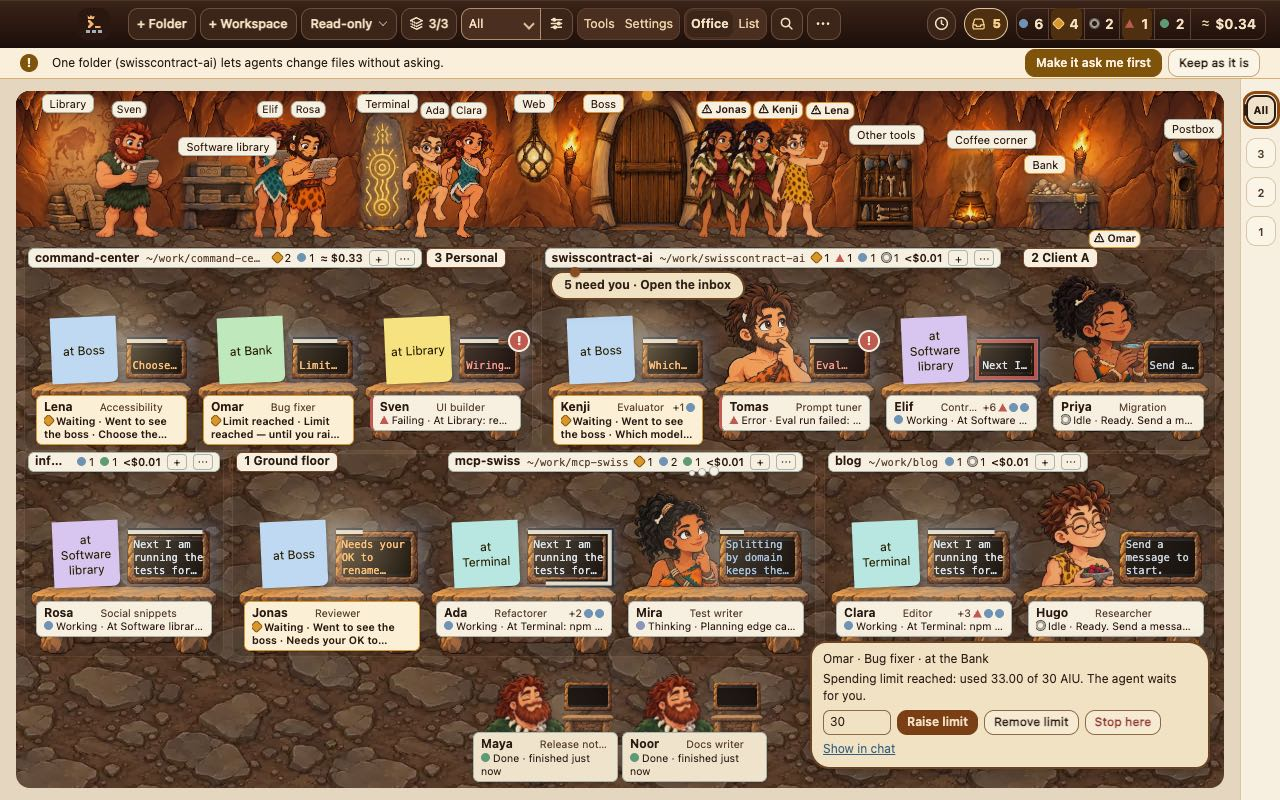
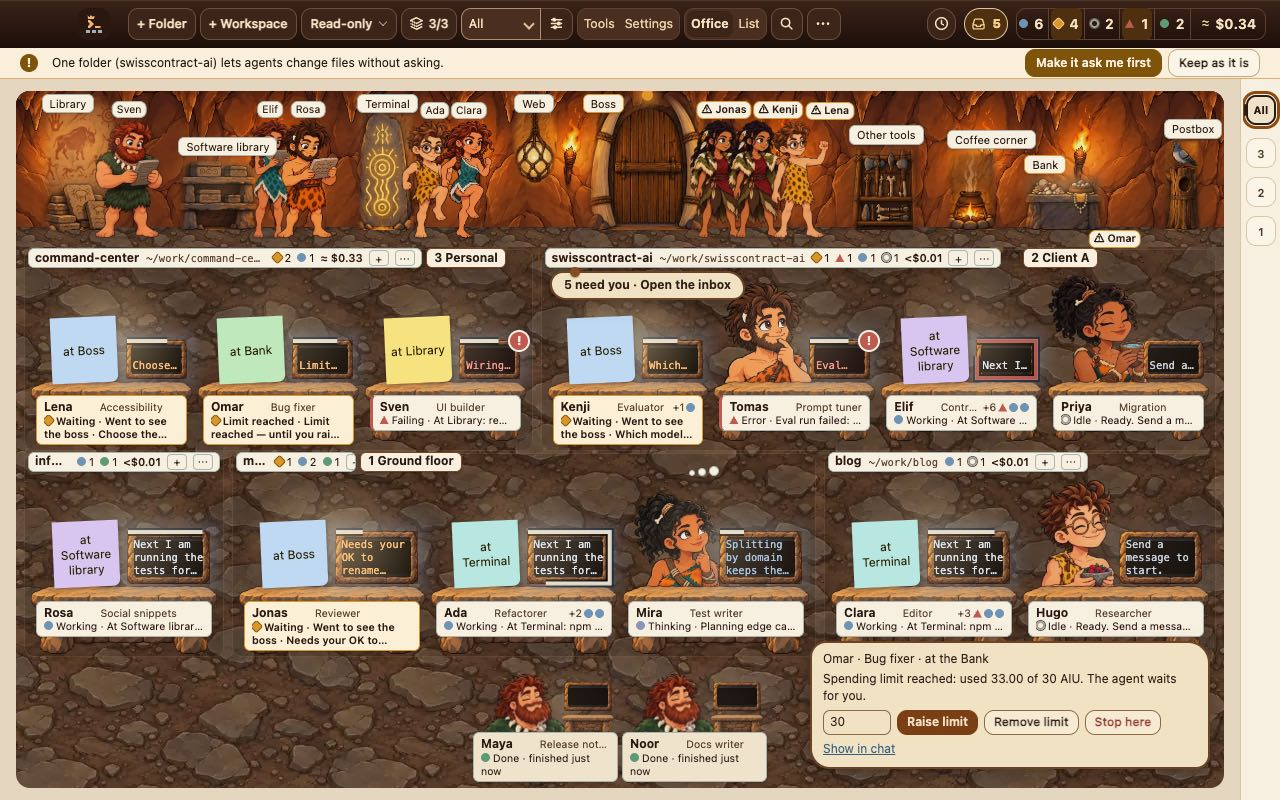
Photo office and cave storeys: never throw with many floors, no sign over thinking dots, a rule at the real start of its floor, fallback halls carry no tag (round 2 of the review of #1746)

Changed region(s): [[0.1875, 0.5625, 0.625, 0.5938]]

diff --git a/src/shared/realoffice-layout.ts b/src/shared/realoffice-layout.ts
@@ -300,7 +300,11 @@ export function lobbyRange(H: number): [number, number] {
 /** spec 097 FR-116 (review of PR 1746): the split reads top floor first: the rows are ordered by their first folder and a row's zones by folder order (as `roPack` lays them out), so the floors' ranks must not fall in that reading order */
 function roFloorOrder(part: RealFolder[][], rank: Map<string, number>): boolean {
   let last = -1;
-  for (const row of part) for (const z of row) { const r = z.floor ? rank.get(z.floor.id) ?? 0 : 0; if (r < last) return false; last = r; }
+  for (const row of part) for (const z of row) {
+    const r = z.floor ? rank.get(z.floor.id) ?? 0 : 0;
+    if (r < last) return false;
+    last = r;
+  }
   return true;
 }
 
@@ -610,7 +614,7 @@ export function realLayout(model: RealModel, viewport: { w: number; h: number },
         /* a floor starts on a new row only when that is free too: the rows each hold one floor and the gaps between storeys are taken from the height; otherwise the floors share rows, and a storey
            that starts mid-row is marked by an upright rule. With 8 or fewer agents (one big row) floors always share it. */
         const gaps = (runs.length - 1) * STOREY_GAP, f = o.p.rows.length > 1 ? choose(folders, Ho - gaps, floor, 2) : null;
-        if (f && !f.p.rows[0].scrH && ok(f, gaps)) { c = f; forced = true; used = gaps; } else c = o;
+        if (f && f.p.fits && f.p.rows.length && !f.p.rows[0].scrH && ok(f, gaps)) { c = f; forced = true; used = gaps; } else c = o;
       }
     }
     const p = c.p; helpRows = c.hr;
@@ -620,10 +624,10 @@ export function realLayout(model: RealModel, viewport: { w: number; h: number },
   const spare = fits ? Math.max(0, Ho - Lb - used) : 0, extra = spare / (rows.length + 1);
   let y = Lb + extra / 2;
   /* spec 097 FR-104 (T113): the storey of a folder; the first zone of each storey carries its tag; a rule goes where a storey starts */
-  const runOf = new Map<string, number>(), firstOf = new Map<string, number>(), slabs = new Map<number, Rect>(), tags = new Map<number, Rect>();
-  (runs || []).forEach((rn, i) => { firstOf.set(folders[rn.from].id, i); for (let k = rn.from; k < rn.to; k++) runOf.set(folders[k].id, i); });
+  const runOf = new Map<string, number>(), started = new Set<number>(), slabs = new Map<number, Rect>(), tags = new Map<number, Rect>();
+  (runs || []).forEach((rn, i) => { for (let k = rn.from; k < rn.to; k++) runOf.set(folders[k].id, i); });
   let prevSt = -1;
-  const cands = new Map<number, Array<{ zi: number; sy: number; sx: number; sw: number; x0: number; lim: number; avail: number; hands: number[][] }>>();
+  const cands = new Map<number, Array<{ zi: number; sy: number; sx: number; sw: number; x0: number; lim: number; avail: number; hands: number[][]; dots: number[][] }>>();
   for (const r of rows) {
     const g = roRowGeom(meta, r, u);
     const stRow = runOf.get(r.zones[0].id.split('\u0000')[0]) ?? -1;
@@ -637,22 +641,32 @@ export function realLayout(model: RealModel, viewport: { w: number; h: number },
       for (const a of z.agents) { const d = roStation(meta, a, ax, y, r.Sw, u, g, big, r.scrH, r.strip ? helpRows : 0, r.strip); d.slot.h = g.bottom; desks.push(d); ax += r.Sw; }
       /* FR-018: the sign sits at the left unless a raised hand (a waving person's picture rising into the strip) is there */
       const s0 = z.id.split('\u0000')[0], s = signs && roOwn(signs, s0) ? signs[s0] : { name: s0, path: '', counts: 1 };
-      const sw = signWidth(s.name, s.path, s.counts, zw);
+      let sw = signWidth(s.name, s.path, s.counts, zw), shrunk = false;
       const hands = desks.filter((d) => d.person && roNeedsYou(d.state) && d.person.y < y + STRIP).map((d) => [d.person!.x, d.person!.x + d.person!.w * 0.6]);
-      const hits = (px: number): boolean => hands.some(([a, b]) => b > px && a < px + sw);
+      /* spec 097 FR-104 (review of PR 1746, issue #1759): with floors drawn, the sign keeps clear of a thinking person's dots in the strip too (the dots touched the sign's lower edge, and a sign moved for a tag stood over them) */
+      const dots = runs ? desks.filter((d) => d.dots && d.dots.y < y + 21 && d.dots.y + DOTS_H > y + 1).map((d) => [d.dots!.x - 2, d.dots!.x + DOTS_W + 2]) : [];
+      const hits = (px: number, w = sw): boolean => hands.some(([a, b]) => b > px && a < px + w) || dots.some(([a, b]) => b > px && a < px + w);
       let sx = x + 4;
-      if (hits(sx)) { sx = x + zw - 4 - sw; if (hits(sx)) sx = Math.max(...hands.map((h) => h[1])) + 6; }
+      if (hits(sx)) { sx = x + zw - 4 - sw; if (hits(sx)) sx = Math.max(...hands.concat(dots).map((h) => h[1])) + 6; }
       sx = Math.max(x + 4, Math.min(sx, x + zw - 4 - sw));
+      if (dots.length && hits(sx)) { /* a gap between the hands and dots wide enough for the sign: the first one from the left */
+        const gaps = [x + 4, ...hands.concat(dots).map((h) => h[1] + 6)].sort((p1, p2) => p1 - p2), wide = (px: number): number => Math.min(sw, x + zw - 4 - px, ...hands.concat(dots).filter(([a0]) => a0 > px).map(([a0]) => a0 - 2 - px)); /* the sign may give up width down to STOREY_SIGN_MIN */
+        const gap = gaps.find((px) => wide(px) >= sw && !hits(px)) ?? gaps.find((px) => wide(px) >= STOREY_SIGN_MIN && !hits(px, wide(px)));
+        if (gap !== undefined) { sx = gap; sw = wide(gap); if (sw < signMin(s.counts)) shrunk = true; }
+      }
       const [fid, part] = z.id.split('\u0000');
       /* spec 097 FR-104 (T113): every zone of a storey is a place for its tag (chosen below); the rule stands in the gap before the storey's first zone when the storey starts mid-row */
       const si = !part && runOf.has(fid) ? runOf.get(fid)! : -1;
       if (si >= 0) {
+        /* the rule goes before the storey's first zone in reading order (two folders of one floor may stand in either order) */
+        const first = !started.has(si);
+        if (first) started.add(si);
         const lim = r.zones.indexOf(z) < r.zones.length - 1 ? x + zw + ZGAP - 5 : W - PAD;
-        (cands.get(si) || cands.set(si, []).get(si)!).push({ zi: zones.length, sy: y + 1, sx, sw, x0: x + 4, lim, avail: lim - (x + 4), hands });
-        if (firstOf.get(fid) === si && si > 0 && !forced) slabs.set(si, { x: Math.max(0, x - 3), y: y + 1, w: 2, h: 20 });
+        (cands.get(si) || cands.set(si, []).get(si)!).push({ zi: zones.length, sy: y + 1, sx, sw, x0: x + 4, lim, avail: lim - (x + 4), hands, dots });
+        if (first && si > 0 && !forced) slabs.set(si, { x: Math.max(0, x - 3), y: y + 1, w: 2, h: 20 });
       }
       /* spec 097 FR-356 (bug #1392): the path gives way first, then the name down to 3 letters; a room too narrow even then takes FR-256's short sign (name, counts, + and menu; the cost on the name's hover) */
-      const short = signMin(s.counts) > zw - 8;
+      const short = signMin(s.counts) > zw - 8 || shrunk;
       zones.push({ id: fid, part: Number(part || 1), box: { x, y: y + 2, w: zw, h: g.bottom - 2 }, sign: { x: sx, y: y + 1, w: sw, h: 20 }, desks, ...(short ? { signShort: true } : {}) });
       x += zw + ZGAP;
     }
@@ -662,7 +676,7 @@ export function realLayout(model: RealModel, viewport: { w: number; h: number },
      Inside that zone's strip [x0, lim] it stands clear of the sign, of every raised hand and of a thinking person's dots: after the sign, else before it, else the sign moves to the other end
      (the sign gives up width down to its minimum first). Review of PR 1746: before, a raised hand moved the sign to the zone's right end and the tag went past the zone. */
   type Cand = NonNullable<ReturnType<typeof cands.get>>[number];
-  const placeTag = (c: Cand, tw0: number, tmin: number, smin: number, keepDots: boolean): { sx: number; sw: number; tx: number; tw: number } | null => {
+  const placeTag = (c: Cand, tw0: number, tmin: number, smin: number, keepDots: boolean, signDots = keepDots): { sx: number; sw: number; tx: number; tw: number } | null => {
     /* what stands in the strip along this row, in any zone (a person's picture reaches past its desk): the raised hands, and a thinking person's dots (the sign was there before them, the tag keeps clear) */
     const obst: number[][] = [];
     for (const zz of zones) if (Math.abs(zz.sign.y - c.sy) < 1) for (const d of zz.desks) {
@@ -673,8 +687,8 @@ export function realLayout(model: RealModel, viewport: { w: number; h: number },
     /* the tag keeps its whole text if it can; narrowed to its minimum (its name cut, whole in the title) only when no place clear of the hands and dots holds it */
     for (const tw of [...new Set([tw0, tmin])]) {
       const sws = [...new Set([Math.max(Math.min(c.sw, smin), Math.min(c.sw, c.avail - tw - 4)), Math.min(c.sw, smin)])];
-      for (const sw2 of sws) for (const sx of [c.sx, free(c.x0, sw2, c.hands), c.lim - sw2]) {
-        if (sx < c.x0 || sx + sw2 > c.lim || c.hands.some(([a, b]) => b > sx && a < sx + sw2)) continue;
+      for (const sw2 of sws) for (const sx of [c.sx, free(c.x0, sw2, signDots ? c.hands.concat(c.dots) : c.hands), c.lim - sw2]) {
+        if (sx < c.x0 || sx + sw2 > c.lim || (signDots ? c.hands.concat(c.dots) : c.hands).some(([a, b]) => b > sx && a < sx + sw2)) continue;
         for (const tx of [free(sx + sw2 + 4, tw, obst), free(c.x0, tw, obst)]) if (tx >= c.x0 && tx + tw <= c.lim && (tx >= sx + sw2 + 4 || tx + tw + 4 <= sx)) return { sx, sw: sw2, tx, tw };
       }
     }
@@ -683,11 +697,11 @@ export function realLayout(model: RealModel, viewport: { w: number; h: number },
   for (const [si, list] of cands) {
     const need = STOREY_SIGN_MIN + STOREY_TAG_MIN + 4, byRoom = list.slice().sort((p, q) => q.avail - p.avail);
     /* in this order: a zone with the room, then any zone with its tag cut to its number (STOREY_TAG_CUT, the title has the name) and its sign to STOREY_SIGN_CUT, then, the dots no longer kept clear, the zone with the most room */
-    const tries: Array<[Cand[], number, number, boolean]> = [[list.filter((k) => k.avail >= need), STOREY_TAG_MIN, STOREY_SIGN_MIN, true], [byRoom, STOREY_TAG_CUT, STOREY_SIGN_CUT, true], [byRoom, STOREY_TAG_CUT, STOREY_SIGN_CUT, false]];
+    const tries: Array<[Cand[], number, number, boolean, boolean]> = [[list.filter((k) => k.avail >= need), STOREY_TAG_MIN, STOREY_SIGN_MIN, true, true], [byRoom, STOREY_TAG_CUT, STOREY_SIGN_CUT, true, true], [byRoom, STOREY_TAG_CUT, STOREY_SIGN_CUT, true, false], [byRoom, STOREY_TAG_CUT, STOREY_SIGN_CUT, false, false]];
     let c: Cand = byRoom[0], got: { sx: number; sw: number; tx: number; tw: number } | null = null;
-    for (const [zs, tmin, smin, kd] of tries) for (const k of zs) {
+    for (const [zs, tmin, smin, kd, sd] of tries) for (const k of zs) {
       if (got) break;
-      c = k; got = placeTag(k, Math.max(tmin, Math.floor(Math.min(storeyTagW(runs![si].floor), k.avail - smin - 4))), tmin, smin, kd);
+      c = k; got = placeTag(k, Math.max(tmin, Math.floor(Math.min(storeyTagW(runs![si].floor), k.avail - smin - 4))), tmin, smin, kd, sd);
     }
     if (!got) { c = byRoom[0]; const sw3 = Math.min(c.sw, STOREY_SIGN_CUT); got = { sx: c.sx, sw: sw3, tx: Math.max(c.x0, Math.min(c.lim - STOREY_TAG_CUT, c.sx + sw3 + 4)), tw: STOREY_TAG_CUT }; } /* no zone has room for both clear of the hands: inside the hall at least */
     const z = zones[c.zi];

diff --git a/scripts/test-realoffice-aisles.ts b/scripts/test-realoffice-aisles.ts
@@ -714,7 +714,7 @@ console.log(`floor covered with 4 or fewer: ${covs.join('; ')}`);
 for (const world of ['photo', 'cave']) {
   const WM = { ...readJson('worlds', world, 'world.json'), ...readJson('sets', world === 'cave' ? 'retro' : 'office', 'set.json') } as unknown as RealMeta;
   const WP = Object.keys(WM.seat).sort();
-  const FLS: RealFloor[] = [{ id: 'g', name: 'Ground floor', n: 1 }, { id: 'c', name: 'Client A', n: 2 }, { id: 'p', name: 'Personal', n: 3 }];
+  const FLS: RealFloor[] = [{ id: 'g', name: 'Ground floor', n: 1 }, { id: 'c', name: 'Client A', n: 2 }, { id: 'p', name: 'Personal', n: 3 }, { id: 'd', name: 'Fourth', n: 4 }];
   /* states: working only, or a mix with people waiting at their desks (raised hand) and thinking (dots); helpers: every agent has one */
   const MIX: RealState[] = ['working', 'waiting', 'thinking', 'working', 'limit', 'working', 'thinking', 'waiting'];
   const fm = (sizes: number[], floorOf: number[], o: { mix?: boolean; helpers?: boolean } = {}): RealModel => { let i = 0; return { folders: sizes.map((n, fi) => ({ id: 'f' + fi, floor: FLS[floorOf[fi]], agents: Array.from({ length: n }, () => { const k = i++; return { id: 'a' + k, state: o.mix ? MIX[k % MIX.length] : 'working' as RealState, person: WP[k % WP.length], away: null, ...(o.helpers ? { helpers: 1 } : {}) }; }) })), places: ['library', 'coffee', 'boss'].map((id) => ({ id, visitors: [] })) }; };
@@ -748,6 +748,22 @@ for (const world of ['photo', 'cave']) {
       assert.ok(!S.some((o) => o.slab && inter(o.slab, b.tag)), `${tag}: no rule runs over the tag of ${b.name}`);
       if (i) assert.ok(!L.zones.some((z) => inter(b.slab!, z.sign) || z.desks.some((d) => inter(b.slab!, d.plate))), `${tag}: the rule of ${b.name} covers no sign or plate`);
     }
+    /* issue #1759 and review round 2: no sign covers a thinking person's dots (the sign moved for a tag stood over them) */
+    const gapFor = (z: Layout['zones'][number]): boolean => { /* is there a place of the sign's minimum width (120 px) in the zone's strip clear of every hand and dots? (then the sign must stand there) */
+      const ob = z.desks.flatMap((d) => [...(d.dots ? [[d.dots.x - 2, d.dots.x + 32]] : []), ...(d.person && needsYou(d) && d.person.y < z.sign.y + 20 ? [[d.person.x, d.person.x + d.person.w * 0.6]] : [])]), lo = z.box.x + 4, hi = z.box.x + z.box.w - 4;
+      return [lo, ...ob.map((o) => o[1] + 6)].some((px) => { const w = Math.min(hi - px, ...ob.filter((o) => o[0] > px).map((o) => o[0] - 2 - px)); return w >= 120 && !ob.some((o) => o[1] > px && o[0] < px + 120); });
+    };
+    for (const z of L.zones) for (const d of z.desks) if (d.dots && gapFor(z)) assert.ok(!inter(z.sign, { x: d.dots.x, y: d.dots.y, w: 30, h: 10 }), `${tag}: the sign of ${z.id} covers the thinking dots of ${d.id}`);
+    /* review round 2: a floor's rule and tag stand at the floor's first folder in reading order: the upright rule before its first zone, no tag above it, no rule below the tag */
+    S.forEach((b, i) => {
+      const fz = L.zones.filter((z) => z.part === 1 && m.folders.find((f) => f.id === z.id)!.floor!.n === b.n).sort((p1, p2) => Math.round(p1.sign.y) - Math.round(p2.sign.y) || p1.box.x - p2.box.x)[0];
+      if (!fz) return;
+      assert.ok(b.tag.y >= fz.sign.y - 1, `${tag}: the tag of ${b.name} is not above the floor's first folder`);
+      if (i && b.slab) {
+        if (b.slab.w === 2) assert.ok(Math.abs(b.slab.x - Math.max(0, fz.box.x - 3)) < 1.5 && Math.abs(b.slab.y - fz.sign.y) < 1.5, `${tag}: the rule of ${b.name} stands before the floor's first folder in reading order (rule y ${b.slab.y}, first folder y ${fz.sign.y})`);
+        assert.ok(b.slab.y <= b.tag.y + 1, `${tag}: the rule of ${b.name} is not below its tag (rule y ${b.slab.y}, tag y ${b.tag.y})`);
+      }
+    });
     const own = S.length > 1 && S.every((b, i) => !i || b.slab!.w > 100);
     if (own) { /* floors on rows of their own: no row holds two floors, the rule lies across between the rows */
       const rowFloors = new Map<number, Set<string>>(); L.zones.forEach((z) => { const k = Math.round(z.sign.y), f = m.folders.find((x) => x.id === z.id)!.floor!.id; (rowFloors.get(k) || rowFloors.set(k, new Set()).get(k)!).add(f); });
@@ -757,10 +773,20 @@ for (const world of ['photo', 'cave']) {
     cases++;
     return own ? 'own' : 'share';
   };
+  // the hall-fallback splits (owner decision 2026-11-14 11:01 UTC, hall over names: PR 1746 comment 6876289137): no storeys, no tag, no rule: exactly the hall without floors
+  for (const [W, H, nm, sz, fl] of [[1248, ROOM.h800, '4+1 on each floor', [4, 1, 4, 1, 4, 1], [2, 2, 1, 1, 0, 0]], [1248, ROOM.h800, '6/5/4', [6, 5, 4], [2, 1, 0]], [1408, ROOM.h900, '1/8/4', [1, 8, 4], [2, 1, 0]], [1248, ROOM.h800, '1/8/4', [1, 8, 4], [2, 1, 0]]] as Array<[number, number, string, number[], number[]]>) {
+    if (world === 'cave' && nm !== '1/8/4') continue; /* the cave draws floors for 4+1 and 6/5/4 at 1280x800 (they share rows at no cost) */
+    for (const mix of [false, true]) {
+      const m = fm(sz, fl, { mix }), L = realLayout(m, { w: W, h: H }, ON, sg(sz.length));
+      assert.strictEqual(L.storeys, undefined, `${world}: ${nm} at ${W}: the hall without floors carries no storeys, tags or rules (no partial tag)`);
+      assert.strictEqual(JSON.stringify(L), JSON.stringify(realLayout(flat(m), { w: W, h: H }, ON, sg(sz.length))), `${world}: ${nm} at ${W}: the hall without floors is the flat hall`);
+      cases++;
+    }
+  }
   const CASES: Array<[string, number[], number[]]> = [
     ['15: 5/5/5', [5, 5, 5], [2, 1, 0]], ['15: 4+1 on each floor', [4, 1, 4, 1, 4, 1], [2, 2, 1, 1, 0, 0]], ['15: 8/7 on 2 floors', [8, 7], [1, 0]], ['15: 6/5/4', [6, 5, 4], [2, 1, 0]], ['15: 7/4/4', [7, 4, 4], [2, 1, 0]],
     ['15: 3,3,3,3,3 on 3 floors', [3, 3, 3, 3, 3], [2, 2, 1, 0, 0]], ['12: 4/4/4', [4, 4, 4], [2, 1, 0]], ['9: 3/3/3', [3, 3, 3], [2, 1, 0]], ['15: 1/1/13', [1, 1, 13], [2, 1, 0]], ['13: 1/8/4', [1, 8, 4], [2, 1, 0]],
-    ['15: 10/5 on 2 floors', [10, 5], [1, 0]], ['11: 5/1/5', [5, 1, 5], [2, 1, 0]],
+    ['15: 10/5 on 2 floors', [10, 5], [1, 0]], ['15: 3,3,3,3,3 on 4 floors (floor 1 holds the last two)', [3, 3, 3, 3, 3], [3, 2, 1, 0, 0]], ['11: 5/1/5', [5, 1, 5], [2, 1, 0]],
   ];
   const sizes: Array<[number, number]> = [[1408, ROOM.h900], [1248, ROOM.h800]];
   const table: string[] = [], outcome = new Map<string, string>();
@@ -807,6 +833,23 @@ for (const world of ['photo', 'cave']) {
     }
     assert.ok(drawn > 300, `${world}: the fuzz draws floors in most halls (${drawn} of 600)`);
     console.log(`rows storeys (${world}): 600 random halls: ${drawn} draw floors, the others the hall without floors; no tag off the hall or over a sign, plate, desk, hand, dots or tag; reading order; no row added`); }
+  // 1 to 9 floors (the app allows more): realLayout never throws and the layout is valid (every folder drawn, finite boxes, tags inside the hall); more than four floors cannot stand on rows of their own, the hall is the flat one
+  { let seed = world === 'photo' ? 31 : 37; const rnd = (): number => { seed = (seed * 1664525 + 1013904223) % 4294967296; return seed / 4294967296; };
+    const FL9: RealFloor[] = Array.from({ length: 9 }, (_, i) => ({ id: 'x' + i, name: 'Floor ' + (i + 1), n: i + 1 }));
+    for (let t = 0; t < 400; t++) {
+      const nf = 1 + Math.floor(rnd() * 9), nfold = nf + Math.floor(rnd() * 4), total = Math.min(15, Math.max(nfold, 6 + Math.floor(rnd() * 10)));
+      const fl = Array.from({ length: nfold }, (_, i) => (i < nf ? i : Math.floor(rnd() * nf))).sort((x, y) => y - x), sz = fl.map(() => 1);
+      for (let r = total - nfold; r > 0; r--) sz[Math.floor(rnd() * nfold)]++;
+      let k = 0;
+      const m: RealModel = { folders: sz.map((n, fi) => ({ id: 'f' + fi, floor: FL9[fl[fi]], agents: Array.from({ length: n }, () => { const i = k++; return { id: 'a' + i, state: MIX[i % MIX.length], person: WP[i % WP.length], away: null }; }) })), places: [] };
+      const [W, H] = sizes[t % 2], tag = `${world} ${nf} floors (${sz.join('/')} on ${fl.join(',')}) at ${W}`;
+      let L: Layout | null = null;
+      try { L = realLayout(m, { w: W, h: H }, ON, sg(sz.length)); } catch (e) { assert.fail(`${tag}: realLayout throws: ${(e as Error).message}`); }
+      assert.ok(L!.zones.length >= nfold && L!.zones.every((z) => Number.isFinite(z.box.x) && Number.isFinite(z.box.y) && z.box.w > 0) && Number.isFinite(L!.u) && L!.u > 0, `${tag}: a valid layout`);
+      if (L!.storeys) assert.ok(L!.storeys.every((b) => inside(b.tag, { x: 0, y: 0, w: W, h: L!.height })), `${tag}: every tag inside the hall`);
+      cases++;
+    }
+  }
   // forced only when free: 15 agents 5/5/5 at 1440x900 stand each on its own row, at 1280x800 the floors share rows (checked above)
   const small = realLayout(fm([5, 5, 5], [2, 1, 0]), { w: 1248, h: ROOM.h800 }, ON, sg(3));
   assert.ok(!small.scroll, `${world}: 15 agents over 3 floors fit 1280x800 with no scroll`);

diff --git a/scripts/shots-097-moments.js b/scripts/shots-097-moments.js
@@ -463,6 +463,7 @@ module.exports = async (ctx) => {
           ratio:Math.min(...tags.map(t=>{const b=t.querySelector('b')||t,a=Lm(P(getComputedStyle(b).color)),c=Lm(P(getComputedStyle(t).backgroundColor));return (Math.max(a,c)+0.05)/(Math.min(a,c)+0.05)})),
           overlap:tags.flatMap((t,i)=>tags.slice(i+1).filter(o=>hit(R(t),R(o))).map(()=>'tag x tag').concat(others.filter(o=>hit(R(t),R(o))).map(o=>'tag x '+o.className))),
           cut:tags.filter(t=>{const b=t.querySelector('b');return !b||b.scrollWidth>b.clientWidth+0.5||!R(t).width}).map(t=>t.textContent.trim()), /* review of #1741: the ellipsis is on the <b>, not on the tag's box (that one never overflows) */
+          signDots:[...document.querySelectorAll('#stage .ro-sign:not(.ro-stag)')].flatMap(g=>[...document.querySelectorAll('#stage .ro-dots')].filter(d=>hit(R(g),R(d))).map(()=>g.textContent.trim().slice(0,20))), /* issue #1759: no sign over a thinking person's dots */
           lounge:document.querySelectorAll('#stage .ro-plate.lounge').length,rest:tags.some(t=>t.textContent.trim()==='Resting'),
           inWindow:tags.every(t=>{const r=R(t);return r.left>=0&&r.right<=innerWidth&&r.top>=0&&r.bottom<=innerHeight}),
           storeys:(lay.storeys||[]).length,scroll:st.dataset.fit==='scroll'||fl.scrollHeight>fl.clientHeight+1}})()`);
@@ -473,6 +474,7 @@ module.exports = async (ctx) => {
       assert.strictEqual(sto.small, 0, `${tag}: the storey tags are 10.5px or more`);
       assert.ok(sto.ratio >= 4.5, `${tag}: the storey tags read at 4.5:1: ${sto.ratio}`);
       assert.deepStrictEqual(sto.overlap, [], `${tag}: no storey tag covers a sign, a plate, thinking dots, a chip or another tag`);
+      assert.deepStrictEqual(sto.signDots, [], `${tag}: no folder sign covers a thinking person's dots (issue #1759)`);
       assert.ok(sto.inWindow, `${tag}: every storey tag is inside the window`);
       assert.strictEqual(sto.scroll, false, `${tag}: the All floors view does not scroll`);
       await shot(world, 'cell-allfloors', w, h);

diff --git a/src/renderer/realoffice.js b/src/renderer/realoffice.js
@@ -350,7 +350,11 @@
     };
     const signs = {};
     for (const f of model.folders) signs[f.id] = { name: f.name, path: f.path, counts: f.counts.length + (f.cost ? 1 : 0) };
-    let lay = meta.arrangement && meta.arrangement !== 'rows' && L.layoutFor ? L.layoutFor(meta.arrangement, engine, view, meta, signs) : L.realLayout(engine, view, meta, signs); /* spec 102 FR-228: the one seam */
+    const layOut = (eng) => meta.arrangement && meta.arrangement !== 'rows' && L.layoutFor ? L.layoutFor(meta.arrangement, eng, view, meta, signs) : L.realLayout(eng, view, meta, signs); /* spec 102 FR-228: the one seam */
+    let lay;
+    try { lay = layOut(engine); } catch (e) { /* spec 097 review of #1746: a layout that fails never leaves an empty office: the hall without floors is drawn instead (the floors' names are the first to go) */
+      lay = layOut(Object.assign({}, engine, { folders: engine.folders.map((f) => Object.assign({}, f, { floor: undefined })) }));
+    }
     /* spec 102 delta 2026-11-11 (issue 1566): an arcade hall that would scroll takes the floor's own padding (`opts.lend`, px) when that makes it fit, so a strip over the floor does not make 15 agents scroll at 1280x800; `lent` tells the host to drop that padding */
     /* spec 102 delta 2026-11-13 (issue 1598): the same when the hall fits only by cutting a folder of 4 or fewer across rows (no scroll, so the test above never ran): the lent layout is used when it keeps them whole */
     const cutSmall = (l) => { const parts = {}, size = {}; for (const z of l.zones || []) { parts[z.id] = (parts[z.id] || 0) + 1; size[z.id] = (size[z.id] || 0) + z.desks.length; } return Object.keys(parts).some((id) => parts[id] > 1 && size[id] <= 4); };

diff --git a/scripts/check-office-overlap.js b/scripts/check-office-overlap.js
@@ -529,7 +529,7 @@ async function driver(ctx) {
       for (let i = 0; i < boxes.length; i++) for (let j = i + 1; j < boxes.length; j++) {
         const a = boxes[i], b = boxes[j];
         if (a.kind === 'face' && b.kind === 'face') continue;
-        if ((a.kind === 'dots' || b.kind === 'dots') && a.kind !== 'stag' && b.kind !== 'stag') continue;
+        if ((a.kind === 'dots' || b.kind === 'dots') && ![a.kind, b.kind].some((k) => k === 'stag' || (floors && k === 'sign'))) continue; /* review round 2 (issue #1759): in the All floors view a sign is kept off the dots too */
         if ((a.kind === 'figure' || b.kind === 'figure') && a.kind !== 'drafttag' && b.kind !== 'drafttag') continue; /* a figure is only measured against the Draft tag (the plate stands in front of the lap by design) */
         if (hit(a.r, b.r)) P.push(`${a.kind} ${a.id} overlaps ${b.kind} ${b.id}`);
       }
